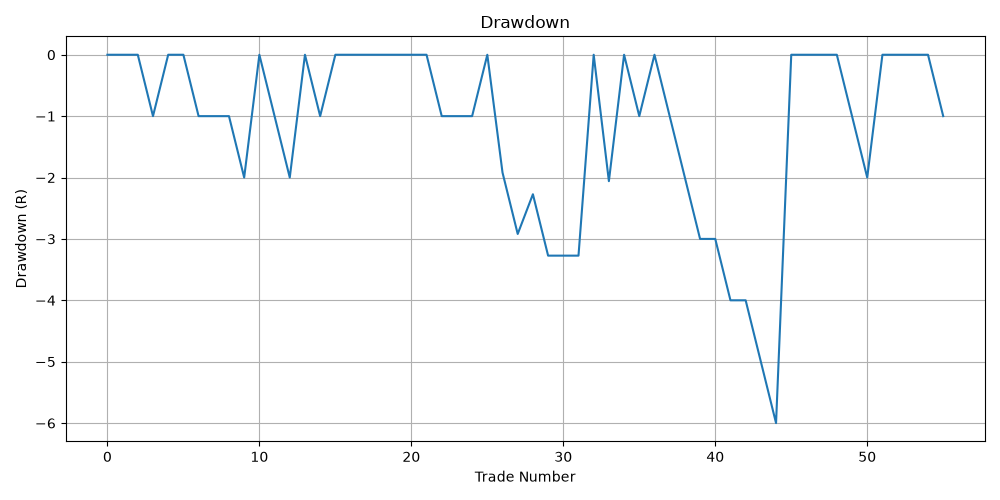
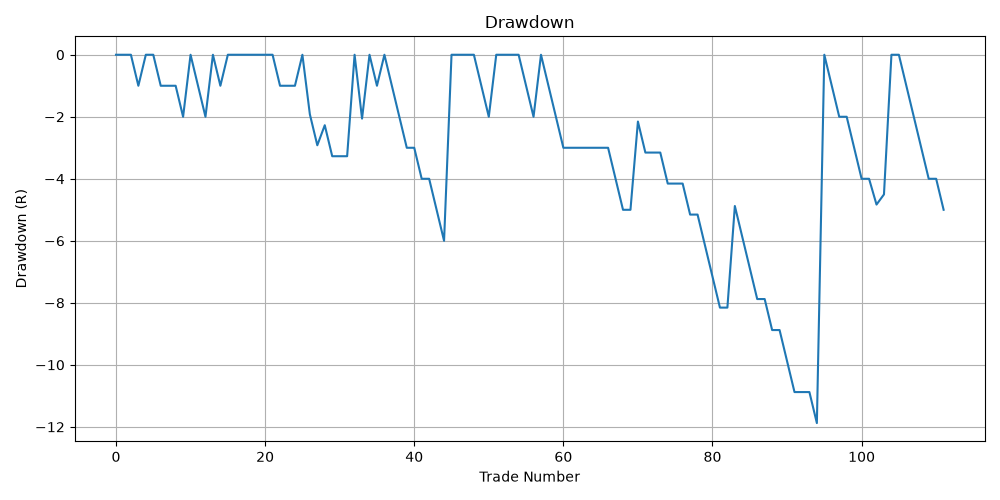
Add S&P 100 universe sample

diff --git a/results/multi_stock_report.html b/results/multi_stock_report.html
@@ -212,6 +212,146 @@
       <td>0.793568</td>
       <td>XOM</td>
     </tr>
+    <tr>
+      <td>9</td>
+      <td>1</td>
+      <td>4</td>
+      <td>4</td>
+      <td>0.111111</td>
+      <td>0.243968</td>
+      <td>2.195713</td>
+      <td>6.195713</td>
+      <td>-1.000000</td>
+      <td>-3.000000</td>
+      <td>1.548928</td>
+      <td>V</td>
+    </tr>
+    <tr>
+      <td>3</td>
+      <td>0</td>
+      <td>1</td>
+      <td>2</td>
+      <td>0.000000</td>
+      <td>-0.333333</td>
+      <td>-1.000000</td>
+      <td>0.000000</td>
+      <td>-1.000000</td>
+      <td>-1.000000</td>
+      <td>0.000000</td>
+      <td>MA</td>
+    </tr>
+    <tr>
+      <td>8</td>
+      <td>1</td>
+      <td>3</td>
+      <td>4</td>
+      <td>0.125000</td>
+      <td>-0.019312</td>
+      <td>-0.154495</td>
+      <td>2.845505</td>
+      <td>-1.000000</td>
+      <td>-2.000000</td>
+      <td>0.948502</td>
+      <td>COST</td>
+    </tr>
+    <tr>
+      <td>7</td>
+      <td>0</td>
+      <td>4</td>
+      <td>3</td>
+      <td>0.000000</td>
+      <td>-0.571429</td>
+      <td>-4.000000</td>
+      <td>0.000000</td>
+      <td>-1.000000</td>
+      <td>-4.000000</td>
+      <td>0.000000</td>
+      <td>HD</td>
+    </tr>
+    <tr>
+      <td>10</td>
+      <td>1</td>
+      <td>6</td>
+      <td>3</td>
+      <td>0.100000</td>
+      <td>-0.272370</td>
+      <td>-2.723704</td>
+      <td>3.276296</td>
+      <td>-1.000000</td>
+      <td>-6.000000</td>
+      <td>0.546049</td>
+      <td>PG</td>
+    </tr>
+    <tr>
+      <td>1</td>
+      <td>0</td>
+      <td>0</td>
+      <td>1</td>
+      <td>0.000000</td>
+      <td>0.000000</td>
+      <td>0.000000</td>
+      <td>0.000000</td>
+      <td>0.000000</td>
+      <td>0.000000</td>
+      <td>NaN</td>
+      <td>JNJ</td>
+    </tr>
+    <tr>
+      <td>6</td>
+      <td>1</td>
+      <td>4</td>
+      <td>1</td>
+      <td>0.166667</td>
+      <td>1.377518</td>
+      <td>8.265111</td>
+      <td>12.265111</td>
+      <td>-1.000000</td>
+      <td>-3.000000</td>
+      <td>3.066278</td>
+      <td>ABBV</td>
+    </tr>
+    <tr>
+      <td>7</td>
+      <td>3</td>
+      <td>3</td>
+      <td>1</td>
+      <td>0.428571</td>
+      <td>0.689536</td>
+      <td>4.826754</td>
+      <td>5.392786</td>
+      <td>-1.000000</td>
+      <td>-1.000000</td>
+      <td>2.704705</td>
+      <td>UNH</td>
+    </tr>
+    <tr>
+      <td>5</td>
+      <td>0</td>
+      <td>4</td>
+      <td>1</td>
+      <td>0.000000</td>
+      <td>-0.800000</td>
+      <td>-4.000000</td>
+      <td>0.000000</td>
+      <td>-1.000000</td>
+      <td>-3.000000</td>
+      <td>0.000000</td>
+      <td>BAC</td>
+    </tr>
+    <tr>
+      <td>0</td>
+      <td>0</td>
+      <td>0</td>
+      <td>0</td>
+      <td>NaN</td>
+      <td>NaN</td>
+      <td>0.000000</td>
+      <td>NaN</td>
+      <td>NaN</td>
+      <td>NaN</td>
+      <td>NaN</td>
+      <td>KO</td>
+    </tr>
   </tbody>
 </table>
 

diff --git a/src/universe.py b/src/universe.py
@@ -1,0 +1,26 @@
+"""
+Lists of stock universes used for backtesting.
+"""
+
+SP100_TICKERS = [
+    "AAPL",
+    "MSFT",
+    "NVDA",
+    "AMZN",
+    "META",
+    "GOOGL",
+    "AVGO",
+    "JPM",
+    "LLY",
+    "XOM",
+    "V",
+    "MA",
+    "COST",
+    "HD",
+    "PG",
+    "JNJ",
+    "ABBV",
+    "UNH",
+    "BAC",
+    "KO",
+]

diff --git a/run_multi_backtest.py b/run_multi_backtest.py
@@ -6,10 +6,9 @@ from src.plotting import plot_equity_curve, plot_drawdown
 from src.multi_report import generate_multi_stock_report
 
 
-TICKERS = [
-    "AAPL", "MSFT", "NVDA", "AMZN", "META",
-    "GOOGL", "AVGO", "JPM", "LLY", "XOM",
-]
+from src.universe import SP100_TICKERS 
+
+TICKERS = SP100_TICKERS
 
 
 def main():